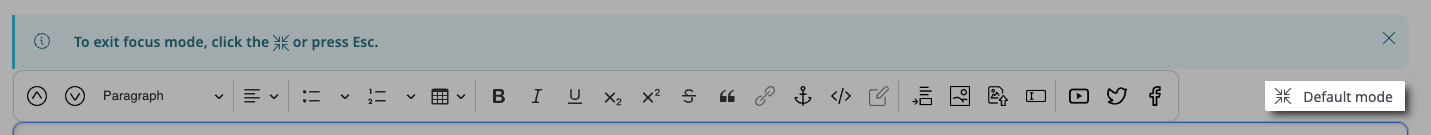
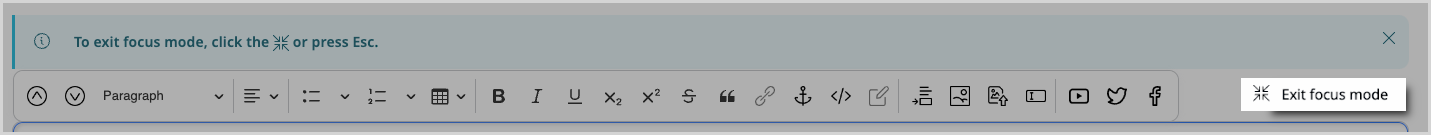
Description & screenshots updated

Changed region(s): [[0.0, 0.0, 1.0, 1.0]]

diff --git a/docs/content_management/create_edit_pages.md b/docs/content_management/create_edit_pages.md
@@ -133,7 +133,7 @@ To access focus mode, click **Focus mode** on the right side above the workspace
 
 ![Access focus mode](img/access_focus_mode_PB.png "Access focus mode")
 
-To exit focus mode, click **Default mode** or press Esc on the keyboard.
+To exit focus mode, click **Exit focus mode** or press Esc on the keyboard.
 
 ![Exit focus mode](img/exit_focus_mode.png "Exit focus mode")
 
